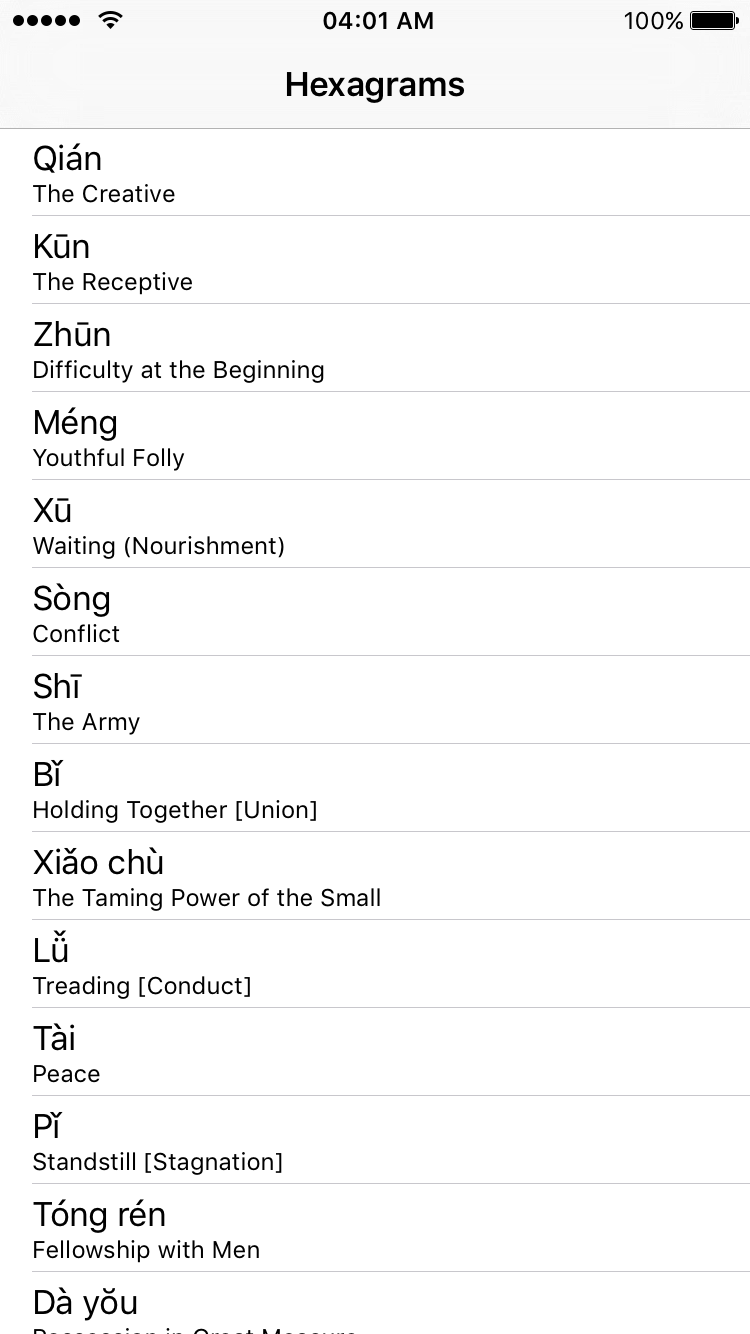
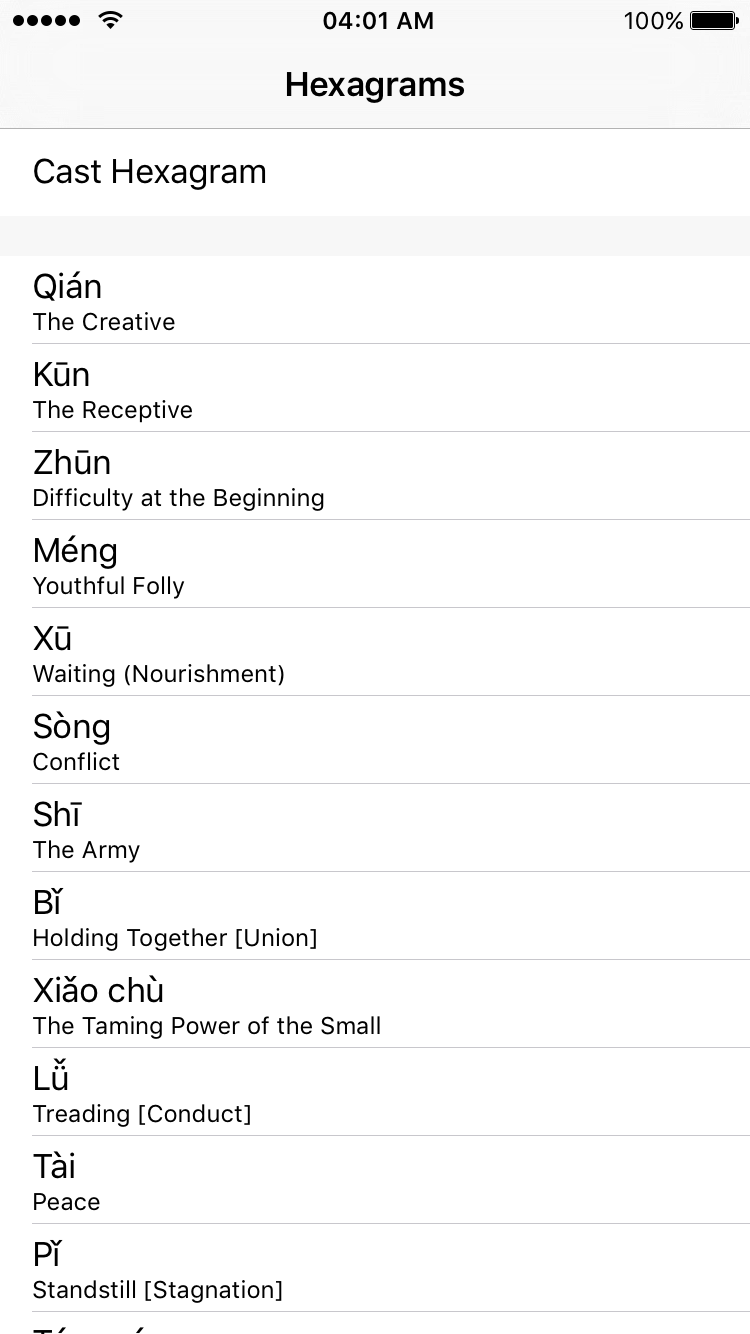
More specs
* include motion-environment-settings

Changed region(s): [[0.0307, 0.0922, 0.5213, 1.0], [0.368, 0.7376, 0.4907, 0.7991]]

diff --git a/ios/app/screens/hexagram_table_screen.rb b/ios/app/screens/hexagram_table_screen.rb
@@ -3,6 +3,16 @@ class HexagramTableScreen < PM::TableScreen
 
   def table_data
     [{
+       cells: [
+         {
+           title: "Cast Hexagram",
+           action: :show_cast_hexagram_menu
+         }
+       ]
+     },
+     {
+       title: " ",
+       title_view_height: 20,
        cells: Turnkey.unarchive("hexagrams").map do |hexagram|
          {
            title: hexagram["chinese_name"],
@@ -19,5 +29,32 @@ class HexagramTableScreen < PM::TableScreen
 
   def show_hexagram(args={})
     open HexagramScreen.new(hexagram: args[:hexagram])
+  end
+
+  def show_cast_hexagram_menu
+    menu = UIAlertController.alertControllerWithTitle("Choose casting method",
+                                                      message: nil,
+                                                      preferredStyle: UIAlertControllerStyleActionSheet)
+    yarrow = UIAlertAction.actionWithTitle("Yarrow",
+                                           style: UIAlertActionStyleDefault,
+                                           handler: -> (_){ cast_hexagram(:yarrow) })
+    menu.addAction(yarrow)
+    coins = UIAlertAction.actionWithTitle("Coins",
+                                           style: UIAlertActionStyleDefault,
+                                           handler: -> (_){ cast_hexagram(:coins) })
+    menu.addAction(coins)
+    random = UIAlertAction.actionWithTitle("Random",
+                                           style: UIAlertActionStyleDefault,
+                                           handler: -> (_){ cast_hexagram(:random) })
+    menu.addAction(random)
+    cancel = UIAlertAction.actionWithTitle("Cancel",
+                                           style: UIAlertActionStyleCancel,
+                                           handler: nil)
+    menu.addAction(cancel)
+    presentViewController(menu, animated: true, completion: nil)
+  end
+
+  def cast_hexagram(method)
+    open CastHexagramScreen.new(casting_method: method)
   end
 end

diff --git a/ios/app/stylesheets/hexagram_screen_stylesheet.rb b/ios/app/stylesheets/hexagram_screen_stylesheet.rb
@@ -1,5 +1,6 @@
 class HexagramScreenStylesheet < ApplicationStylesheet
   include HexagramViewStylesheet
+  include HexagramTextViewStylesheet
 
   def root_view(st)
     st.background_color = color.white
@@ -9,28 +10,5 @@ class HexagramScreenStylesheet < ApplicationStylesheet
     st.frame = { t: 60, w: screen_width, h: 50, l: 0 }
     st.text_alignment = :center
     st.font = font.small
-  end
-
-  def hexagram_text_content(st)
-    st.frame = { w: screen_width, h: screen_height / 3, fb: 0, l: 0 }
-    st.background_color = color.clear
-  end
-
-  def hexagram_text_content_switcher(st)
-    st.frame = { t: 10, w: screen_width - 60, centered: :horizontal, h: 30 }
-    st.tint_color = color.black
-  end
-
-  def scroll_view(st)
-    st.background_color = color.clear
-    st.frame = { w: screen_width, h: st.superview.frame.size.height - 50, fb: 0 }
-    st.content_offset = CGPointMake(0, 0)
-    st.content_inset = UIEdgeInsetsMake(0, 0, 0, 0)
-  end
-
-  def hexagram_text(st)
-    st.number_of_lines = 0
-    st.frame = { t: 20, w: screen_width - 40, centered: :horizontal }
-    st.font = font.tiny
   end
 end

diff --git a/ios/app/stylesheets/hexagram_text_view_stylesheet.rb b/ios/app/stylesheets/hexagram_text_view_stylesheet.rb
@@ -1,0 +1,24 @@
+module HexagramTextViewStylesheet
+  def hexagram_text_content(st)
+    st.frame = { w: screen_width, h: screen_height / 3, fb: 0, l: 0 }
+    st.background_color = color.clear
+  end
+
+  def hexagram_text_content_switcher(st)
+    st.frame = { t: 10, w: screen_width - 60, centered: :horizontal, h: 30 }
+    st.tint_color = color.black
+  end
+
+  def scroll_view(st)
+    st.background_color = color.clear
+    st.frame = { w: screen_width, h: st.superview.frame.size.height - 50, fb: 0 }
+    st.content_offset = CGPointMake(0, 0)
+    st.content_inset = UIEdgeInsetsMake(0, 0, 0, 0)
+  end
+
+  def hexagram_text(st)
+    st.number_of_lines = 0
+    st.frame = { t: 20, w: screen_width - 40, centered: :horizontal }
+    st.font = font.tiny
+  end
+end

diff --git a/ios/app/screens/cast_hexagram_screen.rb b/ios/app/screens/cast_hexagram_screen.rb
@@ -1,0 +1,29 @@
+class CastHexagramScreen < PM::Screen
+  attr_accessor :casting_method
+  stylesheet CastHexagramScreenStylesheet
+
+  def will_appear
+    mp self.casting_method
+    draw_hexagram
+  end
+
+  def draw_hexagram
+    API.cast(self.casting_method) do |result|
+      mp result
+      rmq(self.view).apply_style(:root_view).tap do |q|
+        q.append!(HexagramView).tap do |q_h|
+          rmq(q_h).style do |st|
+            st.frame = { centered: :horizontal }
+          end
+          q_h.lines = result["lines"].map { |line|
+            case line
+            when 6, 8 then "0"
+            when 7, 9 then "1"
+            end
+          }
+          q_h.draw_lines
+        end
+      end
+    end
+  end
+end

diff --git a/ios/app/shared/api.rb b/ios/app/shared/api.rb
@@ -1,0 +1,23 @@
+module API
+  def self.hexagrams(&block)
+    get("hexagrams", &block)
+  end
+
+  def self.cast(casting_method, &block)
+    puts "==========> in the regular API module..."
+    get("hexagram.#{casting_method}", &block)
+  end
+
+  def self.get(path, &block)
+    client.get(path) do |result|
+      result.success? ? block.call(result.object) : mp(result.error.localizedDescription)
+    end
+  end
+
+  def self.client
+    @client ||= AFMotion::Client.build("http://iching.dev.com:9393/api/v1/") do
+      header "Accept", "application/json"
+      response_serializer :json
+    end
+  end
+end

diff --git a/ios/features/concerns/app_delegate.rb b/ios/features/concerns/app_delegate.rb
@@ -3,7 +3,7 @@ class AppDelegate
     SDStatusBarManager.sharedInstance.enableOverrides
     SDStatusBarManager.sharedInstance.timeString = "04:01 AM"
 
-    Hexagram.load_async do |hexagrams|
+    API.hexagrams do |hexagrams|
       Turnkey.archive(hexagrams, "hexagrams")
       open HexagramTableScreen.new(nav_bar: true)
     end

diff --git a/ios/app/app_delegate.rb b/ios/app/app_delegate.rb
@@ -11,7 +11,9 @@ class AppDelegate < PM::Delegate
   end
 
   def load_data
-    Hexagram.load_async do |hexagrams|
+    # Hexagram.load_async do |hexagrams|
+    puts "================>"
+    API.hexagrams do |hexagrams|
       Turnkey.archive(hexagrams, "hexagrams")
       open HexagramTableScreen.new(nav_bar: true)
     end

diff --git a/ios/app/models/hexagram.rb b/ios/app/models/hexagram.rb
@@ -1,7 +1,2 @@
 class Hexagram
-  def self.load_async(&block)
-    AFMotion::JSON.get("http://iching.dev.com:9393/api/v1/hexagrams") do |result|
-      block.call(result.object)
-    end
-  end
 end

diff --git a/ios/app/stylesheets/cast_hexagram_screen_stylesheet.rb b/ios/app/stylesheets/cast_hexagram_screen_stylesheet.rb
@@ -1,0 +1,7 @@
+class CastHexagramScreenStylesheet < ApplicationStylesheet
+  include HexagramViewStylesheet
+
+  def root_view(st)
+    st.background_color = color.white
+  end
+end

diff --git a/ios/features/concerns/api.rb b/ios/features/concerns/api.rb
@@ -1,0 +1,7 @@
+module API
+  def self.cast(casting_method, &block)
+    block.call({
+                 "lines" => [6, 7, 8, 9, 8, 7]
+               })
+  end
+end

diff --git a/ios/app/settings.rb b/ios/app/settings.rb
@@ -1,0 +1,3 @@
+class Settings
+  def self.name; "IChing Test"; end
+end
